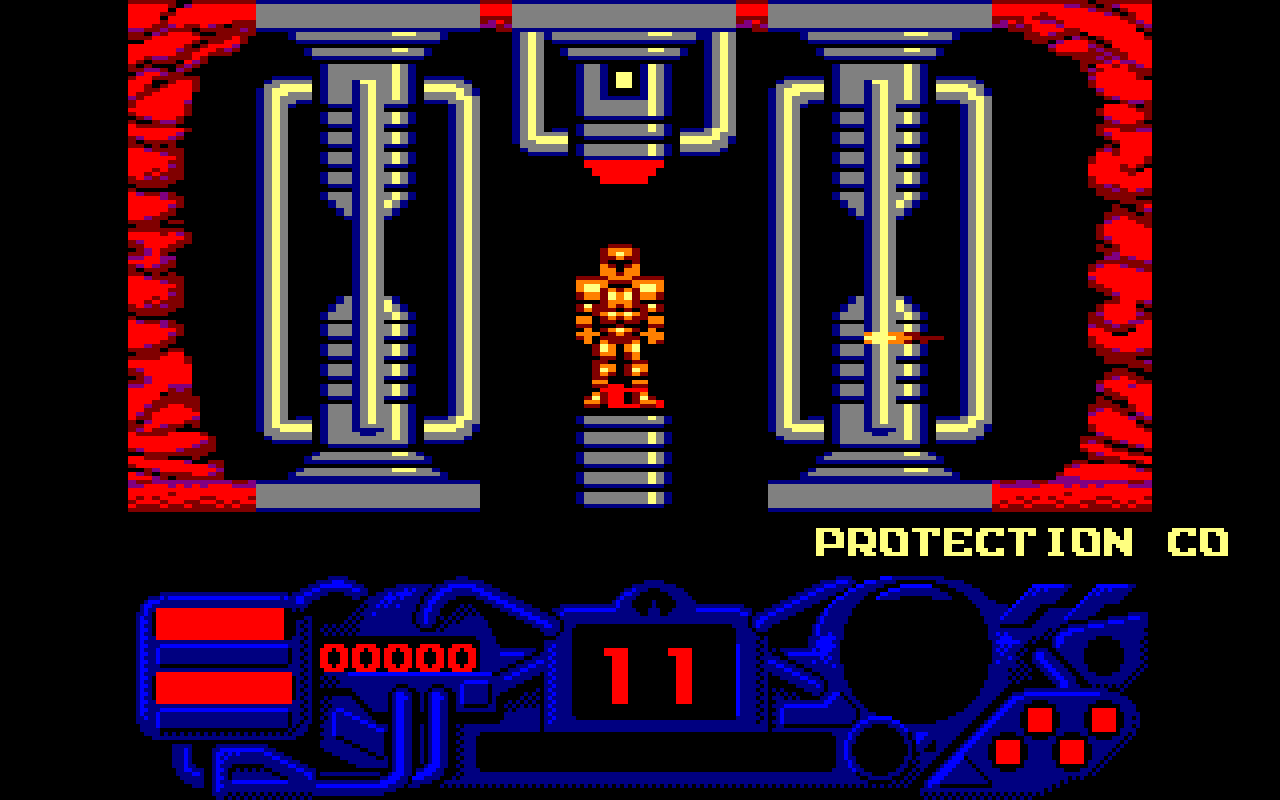
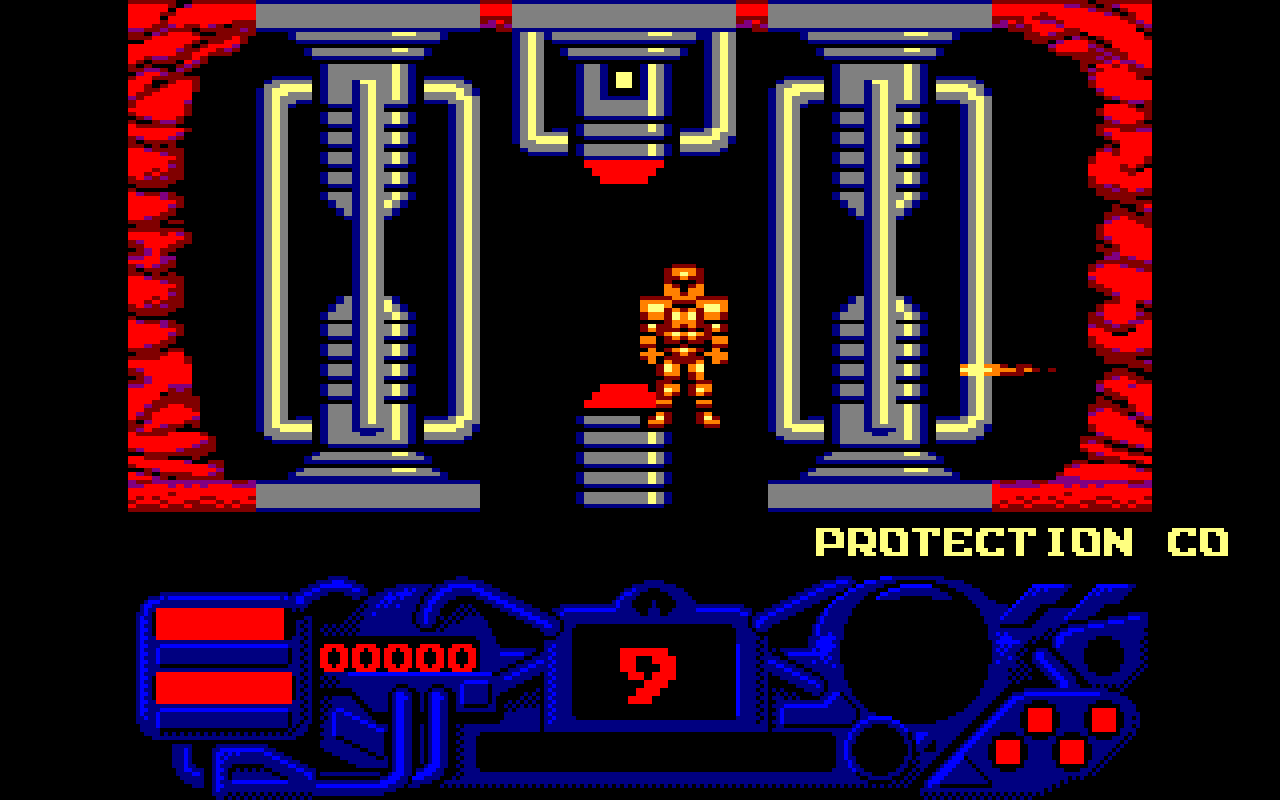
antiriad-php: Tal faces the way he walks, the original title screen
- the sprite sheets face right: mirror them when Tal (or the suit) goes left,
  he no longer seems to walk backwards
- 15 ticks a second, the original's walking pace (a byte every 3.3 frames)
- the title screen is the CPC's own (captured by extract.sh), credits
  rewritten in French with the original font except in Spanish
- site pictures and thumbnail made again

Claude-Session: https://claude.ai/code/session_018nX3czTef4URLjjbUggjeZ

diff --git a/games/antiriad-php/src/Scene/TitleScene.php b/games/antiriad-php/src/Scene/TitleScene.php
@@ -3,72 +3,63 @@
 namespace App\Scene;
 
 use App\Antiriad\Assets;
-use App\Antiriad\Gfx;
-use App\Antiriad\Ticker;
-use JumPHP\Kernel\Platform;
 use JumPHP\Renderer\Renderer;
-use JumPHP\Ui\MenuScene;
+use JumPHP\Scene\AbstractScene;
 use JumPHP\Util\Lang;
 
 /**
- * The title screen of the original, remade: its music, the dashboard under the title, the credits
- * scrolling in the message line, Tal and the suit facing each other.
+ * The original's title screen, as the CPC draws it (assets/title/title.png, captured by tools/extract):
+ * the credits over the dashboard, with the title tune. Fire / Enter starts, Escape opens the options.
+ * The disc is the Spanish edition: in Spanish the capture is shown whole; in the other languages its lines
+ * are written again, translated, with the original font, colour and rows (one every 16 lines).
  */
-final class TitleScene extends MenuScene
+final class TitleScene extends AbstractScene
 {
-    protected float $menuTop = 0.40;
-    private Gfx $gfx;
-    private Ticker $ticker;
-    private float $time = 0.0;
+    private const BLUE = [0, 128, 255];
+    private const CREDITS = [
+        'THE SACRED ARMOUR OF ANTIRIAD',
+        'PROGRAMMING',
+        'ANDREW FITTER',
+        'MAPS AND GRAPHICS',
+        'DANIEL MALONE',
+        'EMILIO',
+        'RICHARD JOSEPH',
+        '@ PALACE SOFTWARE MCMLXXXVII',     // @ = the font's copyright sign,
+    ];
 
     public function enter(array $params = []): void
     {
         Assets::boot($this->engine);
-        $this->gfx = Assets::gfx();
-        parent::enter($params);
-        $this->menu->selectedColor = [255, 255, 128];
-        $this->menu->color = [0, 128, 255];
-        $this->ticker = new Ticker(8, 312, 131);
-        $this->time = 0.0;
+        if (!$this->sdl()->hasTexture('title')) {
+            $this->sdl()->loadTexture('title', 'assets/title/title.png');
+        }
         if ($this->sound()->getCurrentMusic() !== 'title') {
             $this->sound()->playMusic('title');
         }
     }
 
-    protected function items(): array
-    {
-        $items = [
-            ['PLAY', null, fn () => $this->scenes()->switchTo(PlayScene::class)],
-            ['OPTIONS', null, fn () => $this->scenes()->push(OptionsScene::class)],
-        ];
-        if (Platform::isDesktop()) {
-            $items[] = ['QUIT', null, fn () => $this->engine->quit()];
-        }
-        return $items;
-    }
-
     public function update(float $dt): void
     {
-        $this->time += $dt;
-        if (!$this->ticker->busy()) {
-            $this->ticker->push(Lang::t('AFTER THE GAME BY PALACE SOFTWARE 1986   PROGRAMMING ANDREW FITTER   GRAPHICS DANIEL MALONE   MUSIC RICHARD JOSEPH   REMADE IN PHP WITH JUMPHP   '));
-            $this->ticker->push(Lang::t('ARROWS MOVE   UP JUMP / FLY   SPACE THROW / FIRE   DOWN CROUCH / PICK UP   E SUIT'));
+        $a = $this->actions();
+        if ($a->isPressed('confirm') || $a->isPressed('fire') || $a->isPressed('jump')) {
+            $this->sound()->playSfx('menu_confirm');
+            $this->scenes()->switchTo(PlayScene::class);
+        } elseif ($a->isPressed('back')) {
+            $this->scenes()->push(OptionsScene::class);
         }
-        $this->ticker->update($dt, $this->font());
-        parent::update($dt);
     }
 
-    protected function renderBackground(Renderer $r): void
+    public function render(Renderer $r): void
     {
+        $title = $this->sdl()->getTexture('title')['texture'];
+        if ($this->engine->lang->getLang() === 'es') {
+            $r->copy($title, null, 0, 0);
+            return;
+        }
         $r->clear([0, 0, 0]);
-        $font = $this->font();
-        $font->draw($r, Lang::t('THE SACRED ARMOUR'), 160, 14, 2, [255, 128, 0], 'center', [128, 0, 0]);
-        $font->draw($r, Lang::t('OF ANTIRIAD'), 160, 36, 2, [255, 255, 128], 'center', [128, 0, 0]);
-        // Tal (sprite 9) and the empty suit (sprite 101), from the sheet of the jungle's palette
-        $bob = (int)(2 * sin($this->time * 2));
-        $this->gfx->sprite($r, 11, 9 | 0x80, 30, 70 + $bob, 200);
-        $this->gfx->sprite($r, 11, 101, 266, 70 - $bob, 200);
-        $this->gfx->hud($r, 128);
-        $this->ticker->render($r, $font, [255, 255, 128]);
+        $r->copy($title, [0, 128, 320, 72], 0, 128, 320, 72);
+        foreach (self::CREDITS as $row => $line) {
+            $this->font()->draw($r, Lang::t($line), 160, $row * 16, 1, self::BLUE, 'center');
+        }
     }
 }

diff --git a/games/antiriad-php/src/Antiriad/Game.php b/games/antiriad-php/src/Antiriad/Game.php
@@ -4,7 +4,7 @@ namespace App\Antiriad;
 
 /**
  * One game: the rules of the original, run one tick at a time (the original updates its objects about
- * 12 times a second). The scene gives the controls of the tick and plays the sounds listed in $sounds.
+ * 15 times a second). The scene gives the controls of the tick and plays the sounds listed in $sounds.
  *
  *  - Tal on foot: walks, jumps, throws stones, crouches to pick something up. His life (#B4FB, 31) drops
  *    by the "bite" of what touches him (type byte 1, bits 4-0); an enemy that touches him dies of it.
@@ -17,14 +17,14 @@ namespace App\Antiriad;
  */
 final class Game
 {
-    public const TICK = 1 / 12;
+    public const TICK = 1 / 15;                // the main loop's pace: Tal walks a byte every 3.3 CPC frames
     public const MAX_LIFE = 31;
     public const MAX_ENERGY = 31;
     public const BOOTS = 0;
     public const PULSE = 1;
     public const MINE = 2;
     public const NEGATOR = 3;
-    private const PERIOD = 24;                  // #6F08: every 100 frames of the CPC, 2 seconds
+    private const PERIOD = 30;                  // #6F08: every 100 frames of the CPC, 2 seconds
     // module index -> its message (#5A2D...)
     private const MODULE_MESSAGE = [8, 9, 11, 10];
     // #8B37: rooms from which the radiation zone number drops by one (zone 6 = rooms 0-1 ... 0 = 41+)

diff --git a/games/antiriad-php/src/Antiriad/Hero.php b/games/antiriad-php/src/Antiriad/Hero.php
@@ -15,7 +15,7 @@ final class Hero
     public const H = 42;
     private const JUMP_FROM = 11;       // fall table index a jump starts from: 8, 7, 6, 5, 4, 4, 3... = 46 lines
 
-    // sprites of the original (facing left; bit 7 = mirrored), animations #9021 1-#15
+    // sprites of the original (the sheet faces right; bit 7 = mirrored, facing left), animations #9021 1-#15
     private const WALK = [3, 4, 5, 6, 7, 0, 1, 2];
     private const THROW = [17, 17, 18, 18, 19, 19, 19, 17, 17, 8];
     private const IDLE = 9;
@@ -140,13 +140,13 @@ final class Hero
     public function animate(): void
     {
         $t = $this->poseTick++;
-        $mirror = $this->facing > 0 ? 0x80 : 0;
+        $mirror = $this->facing < 0 ? 0x80 : 0;
         if ($this->inSuit) {
             $this->frame = match (true) {
                 $this->flying || !$this->onGround => self::SUIT_FLY,
-                $this->pose === 'walk' => self::SUIT_WALK[intdiv($t, 2) % 2] | $mirror,
+                $this->pose === 'walk' => self::SUIT_WALK[intdiv($t, 2) % 2],
                 default => self::SUIT_IDLE,
-            };
+            } | $mirror;
             return;
         }
         $this->frame = match ($this->pose) {

diff --git a/games/antiriad-php/src/Scene/PlayScene.php b/games/antiriad-php/src/Scene/PlayScene.php
@@ -13,7 +13,7 @@ use JumPHP\Scene\AbstractScene;
 
 /**
  * The game: the room on top (320 x 128), the dashboard under it (its own picture, mode 1 on the CPC).
- * The rules run at the original's pace, 12 ticks a second (App\Antiriad\Game); drawing runs every frame.
+ * The rules run at the original's pace, 15 ticks a second (App\Antiriad\Game); drawing runs every frame.
  *
  * Test params: room, x, y, suit (bool), energy, modules (list of 0-3), lives, demo (a bot plays).
  */
@@ -162,7 +162,7 @@ final class PlayScene extends AbstractScene
         }
         // the centre screen: the lives, or the mine's countdown; the round one: the cell Tal carries
         if ($g->countdown !== null) {
-            $font->draw($r, (string)max(0, intdiv($g->countdown, 12)), 163, 160, 2, self::RED, 'center');
+            $font->draw($r, (string)max(0, intdiv($g->countdown, 15)), 163, 160, 2, self::RED, 'center');
         } else {
             for ($i = 0; $i < min(5, $g->lives); $i++) {
                 $r->fillRect(146 + $i * 7, 164, 5, 8, self::RED);

diff --git a/games/antiriad-php/AGENTS.md b/games/antiriad-php/AGENTS.md
@@ -23,13 +23,13 @@ bin/jumphp build:remote antiriad-php && JUMPHP_WEB=remote bin/jumphp webshot ant
 - **Assets** (`assets/`, ignored by git: the original's data) are rebuilt by `tools/extract/extract.sh`:
   `rooms/room-NN.png` (320 x 128 with the neighbours' edge columns), `sprites/sprites-PP.png` (one sheet per
   room palette), `hud/hud.png`, `data/world.json` (exits, ground and wall masks, objects, animations,
-  programs, types, items, messages, font), `music/*.ogg`, `sfx/*.ogg`. On the playground they are private files.
+  programs, types, items, messages, font), `title/title.png`, `music/*.ogg`, `sfx/*.ogg`. On the playground they are private files.
 - **Units**: the original's. x in screen bytes (0-79, 4 view pixels), y in lines (50 = top of the
   playfield, 178 = under it). View 320 x 200: playfield 0-127, dashboard 128-199.
-- **Scenes**: `TitleScene` (menu, title music, credits ticker) → `PlayScene` (the game; `GAME OVER` /
+- **Scenes**: `TitleScene` (the original's title screen, `assets/title/title.png`, credits rewritten translated except in Spanish; fire starts, Escape = options) → `PlayScene` (the game; `GAME OVER` /
   `VICTOIRE` then fire → title) ; overlay `PauseScene` ; `OptionsScene` (pushed: sounds, music, language).
 - **Model** (`src/Antiriad/`, created with `new`, excluded from the container): `World` (world.json),
-  `Game` (rules, 12 ticks a second), `Hero` (Tal / the suit: walk, jump, fall table, walls), `Actor` (objects
+  `Game` (rules, 15 ticks a second: the original's walking pace), `Hero` (Tal / the suit: walk, jump, fall table, walls), `Actor` (objects
   running the original's movement programs and animations), `Gfx`, `CpcFont` (the original font, also the
   engine's font), `Ticker` (message line), `Messages` (fr / en through config/lang.yaml, es = the disc's texts).
 - **Rules**: see the doc block of `Game`. Modules: 0 boots (room 43), 1 pulse beam (33), 2 mine (20),
@@ -37,4 +37,5 @@ bin/jumphp build:remote antiriad-php && JUMPHP_WEB=remote bin/jumphp webshot ant
 - **Controls** (`config/input.yaml`): arrows, up / Z = jump (thrust in the suit), Space = throw / fire,
   down = crouch / pick up / enter the suit, E = in / out of the suit, Escape = pause.
 - **Test params** of `PlayScene`: `room`, `x`, `y`, `suit`, `energy`, `modules` (list), `lives`, `demo`.
+- **Sprites** face right in the sheets; bit 7 mirrors them (facing left).
 - **Smoke test**: `PlayScene` with `demo: true` (a bot walks, jumps and throws; nothing hurts it).
